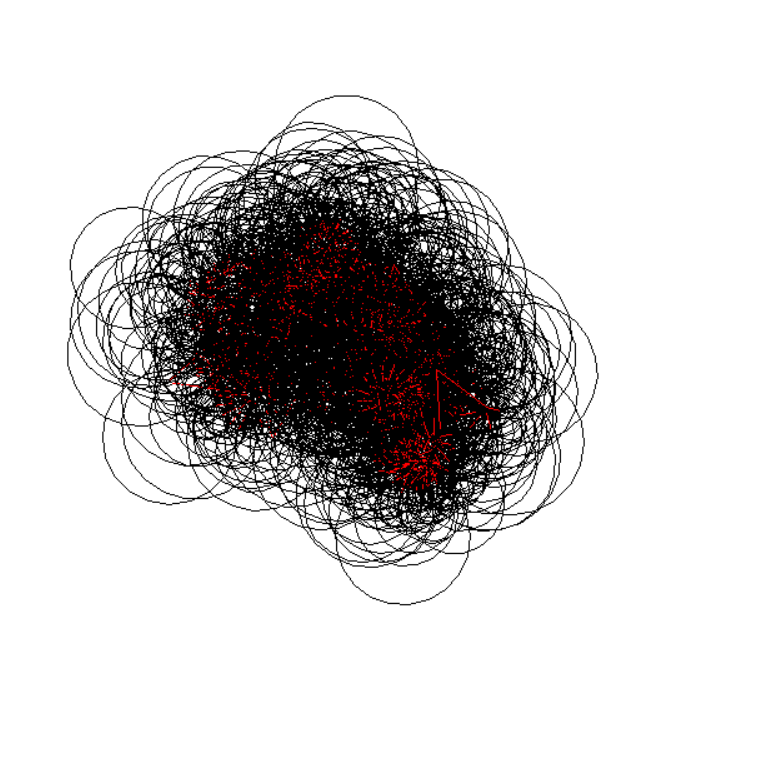
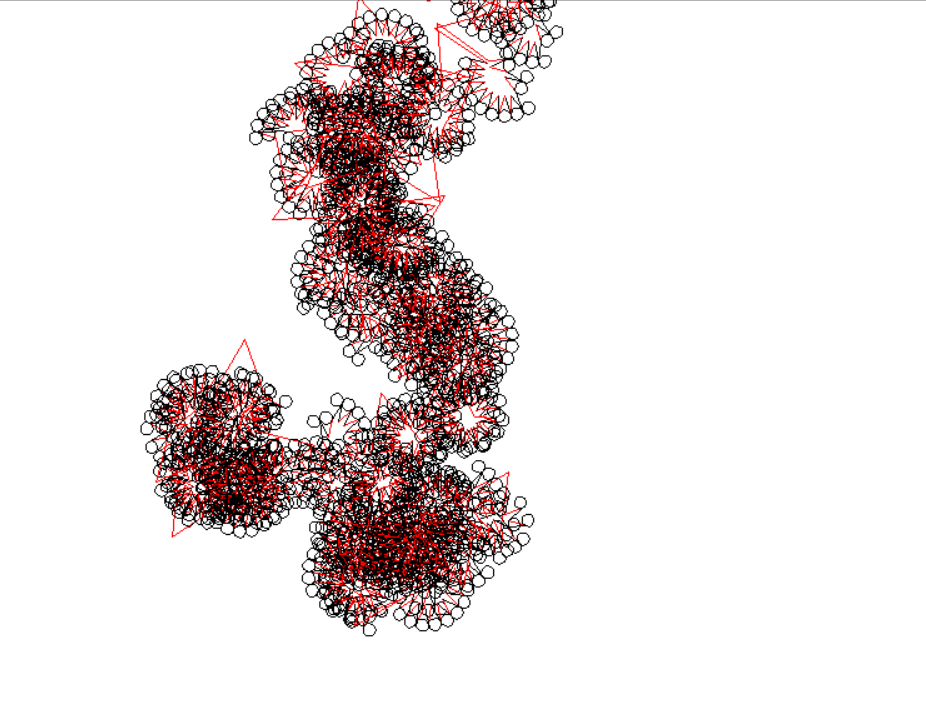
Pattern changes to tree

diff --git a/Recursion Visulaizer/recursionVisualizer.py b/Recursion Visulaizer/recursionVisualizer.py
@@ -12,31 +12,31 @@ def tree(i):
         return
     else:
         t.right(20)
-        tree(i/6)
         turtle.heading()
         t.forward(15)
+        t.speed(2000)
         while i>0:
          t.pencolor("black")
-         t.circle(i)
+         t.circle(5)
          tree(i/5)
          i-=50
         t.left(20)
         while i>0:
          t.pencolor("yellow")
-         t.circle(i)
+         t.circle(10)
          tree(i/4)
          i-=50
         t.position()
         t.backward(15)
         while i>0:
          t.pencolor("black")
-         t.circle(i)
+         t.circle(15)
          tree(i/3)
          i-=50
         t.right(20)
         while i>0:
          t.pencolor("yellow")
-         t.circle(i)
+         t.circle(20)
          tree(i/2)
          i-=50
         print(t.pos())
